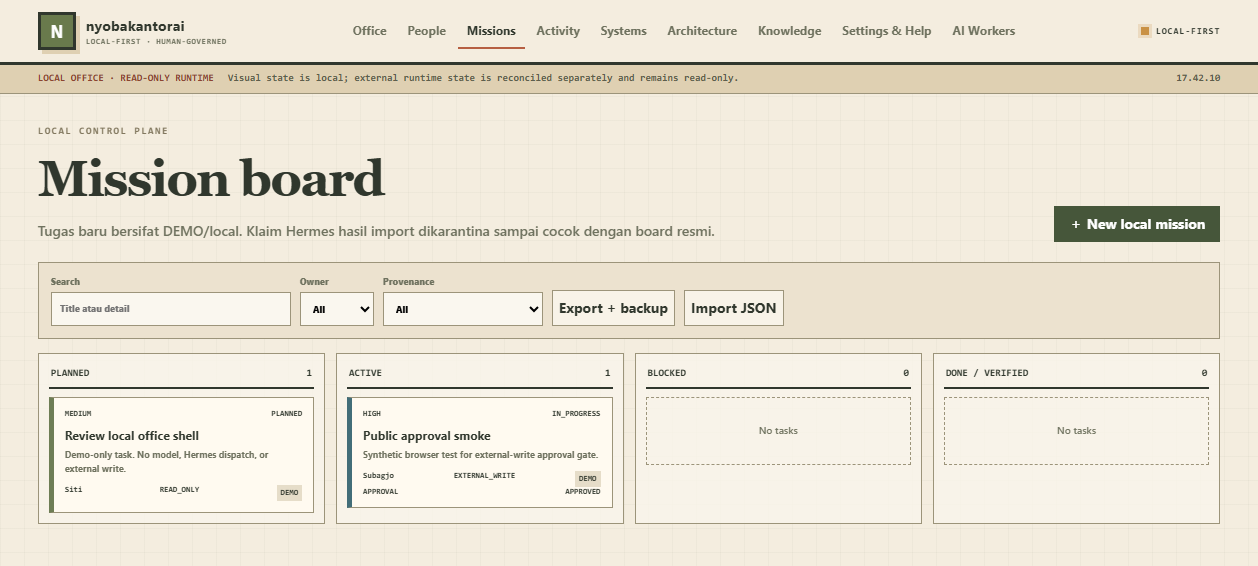
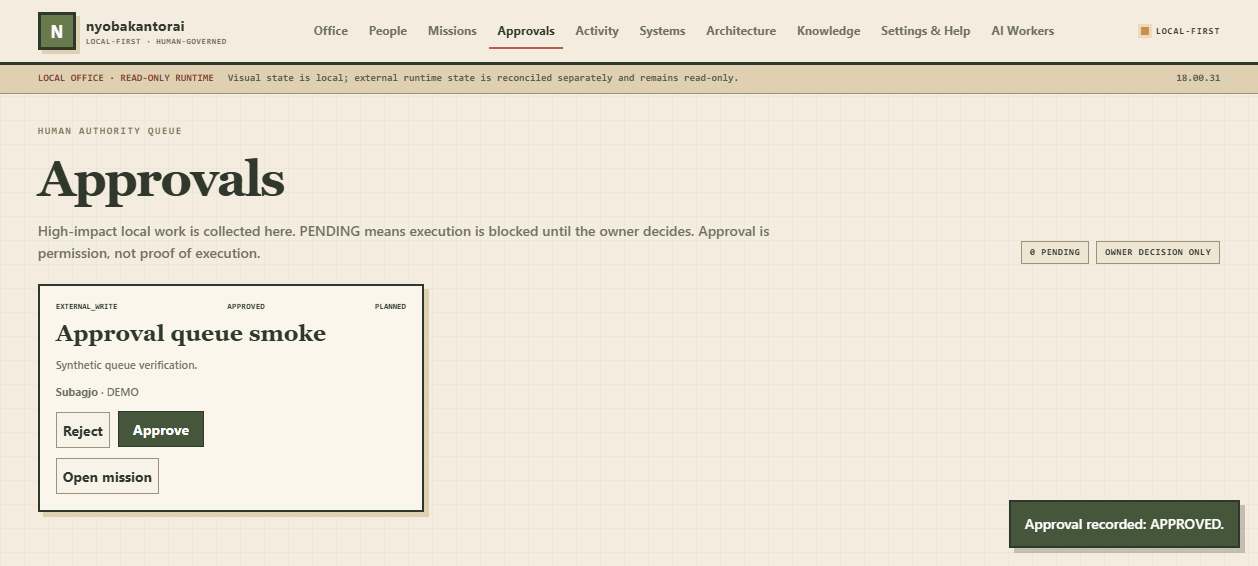
Add dedicated human approval queue

diff --git a/office/src/index.html b/office/src/index.html
@@ -17,6 +17,7 @@
       <button class="nav-button is-active" data-view="office" type="button">Office</button>
       <button class="nav-button" data-view="people" type="button">People</button>
       <button class="nav-button" data-view="missions" type="button">Missions</button>
+      <button class="nav-button" data-view="approvals" type="button">Approvals</button>
       <button class="nav-button" data-view="activity" type="button">Activity</button>
       <button class="nav-button" data-view="systems" type="button">Systems</button>
       <button class="nav-button" data-view="architecture" type="button">Architecture</button>
@@ -62,6 +63,11 @@
       <div class="toolbar"><label>Search <input id="task-search" type="search" placeholder="Title atau detail"></label><label>Owner <select id="task-owner"><option value="">All</option></select></label><label>Provenance <select id="task-provenance"><option value="">All</option><option>DEMO</option><option>LOCAL_CLAIM</option><option>AUTHORITATIVE_RUNTIME</option></select></label><button id="export-registry" type="button">Export + backup</button><button id="import-registry" type="button">Import JSON</button></div>
       <div id="quarantine-notice" class="quarantine-notice" hidden></div>
       <div id="mission-board" class="mission-board"></div>
+    </section>
+
+    <section id="view-approvals" class="view" hidden aria-labelledby="approvals-title">
+      <div class="page-heading"><div><p class="eyebrow">HUMAN AUTHORITY QUEUE</p><h1 id="approvals-title">Approvals</h1><p>High-impact local work is collected here. PENDING means execution is blocked until the owner decides. Approval is permission, not proof of execution.</p></div><div class="heading-badges"><span id="approval-pending-count">0 PENDING</span><span>OWNER DECISION ONLY</span></div></div>
+      <div id="approval-grid" class="approval-grid"></div>
     </section>
 
     <section id="view-activity" class="view" hidden aria-labelledby="activity-title">

diff --git a/office/src/styles.css b/office/src/styles.css
@@ -46,3 +46,6 @@ button,.primary{min-height:36px;border:1px solid var(--line);background:#f8f3e8;
 .worker-offline-panel{min-height:760px;display:flex;flex-direction:column;align-items:center;justify-content:center;text-align:center;gap:16px;padding:clamp(20px,5vw,64px);background:#fffaf0;color:#2f3b30}
 .worker-offline-panel h2{margin:0;font-size:clamp(22px,3vw,36px)}
 .worker-offline-panel p{max-width:650px;margin:0;line-height:1.65}
+
+/* Human approval queue */
+.approval-grid{display:grid;grid-template-columns:repeat(3,minmax(0,1fr));gap:12px}.approval-card{display:grid;gap:10px;align-content:start;padding:16px;border:2px solid var(--ink);background:var(--panel);box-shadow:5px 5px 0 var(--cream-2)}.approval-card h2{margin:0;font:700 23px/1.08 Georgia,serif}.approval-card p{margin:0;color:var(--muted);font-size:11px}.approval-card>.form-actions{justify-content:flex-start;margin-top:2px}.approval-card>[data-approval-open]{justify-self:start}.approval-card .task-meta span:nth-child(2){font-weight:900}.approval-card .task-meta span:nth-child(2):where(:not(:empty)){letter-spacing:.04em}@media(max-width:980px){.approval-grid{grid-template-columns:1fr 1fr}}@media(max-width:640px){.approval-grid{grid-template-columns:1fr}}

diff --git a/docs/assets/README.md b/docs/assets/README.md
@@ -5,7 +5,7 @@ These screenshots were captured from the public-safe local build of nyobakantora
 | File | Purpose | SHA-256 |
 | --- | --- | --- |
[3 lines of base64/hex data omitted]
 
 Provenance:
 - generated from this repository's local UI;

diff --git a/CHANGELOG.md b/CHANGELOG.md
@@ -16,6 +16,7 @@ All notable public changes to nyobakantorai are documented here.
 - Original MIT-licensed SVG character assets with provenance manifest.
 - Deterministic synthetic multi-agent demo flow.
 - Explicit owner approval gate for external writes, paid actions, account changes, and destructive work.
+- Dedicated approval queue with pending count, owner decisions, and mission drill-through.
 - Dependency-free Runtime Adapter SDK v1 with bounded fail-closed snapshots.
 - Public-safe office and approval-flow screenshots with SHA-256 provenance.
 

diff --git a/docs/APPROVAL-MODEL.md b/docs/APPROVAL-MODEL.md
@@ -33,6 +33,8 @@ Only the human owner may record:
 
 An approval creates an append-only event and stores a bounded evidence reference. A rejected task may later be approved through a new owner event; the history remains visible.
 
+The office also exposes a dedicated **Approvals** view that collects approval-required local tasks, surfaces pending count, and records owner decisions through the same registry primitive. The queue does not bypass lifecycle or evidence rules.
+
 ## What approval does not mean
 
 Approval does **not** prove that:

diff --git a/ROADMAP.md b/ROADMAP.md
@@ -23,7 +23,7 @@
 - [ ] normalized execution and cost receipts
 
 ## v0.3 — Human-governed orchestration
-- [ ] dedicated approval-queue view with filters and decision history
+- [x] dedicated approval-queue view with pending count and owner decisions
 - [ ] signed/verifiable execution receipts
 - [ ] capability negotiation and policy packs per role
 - [ ] pluggable storage with export/import
